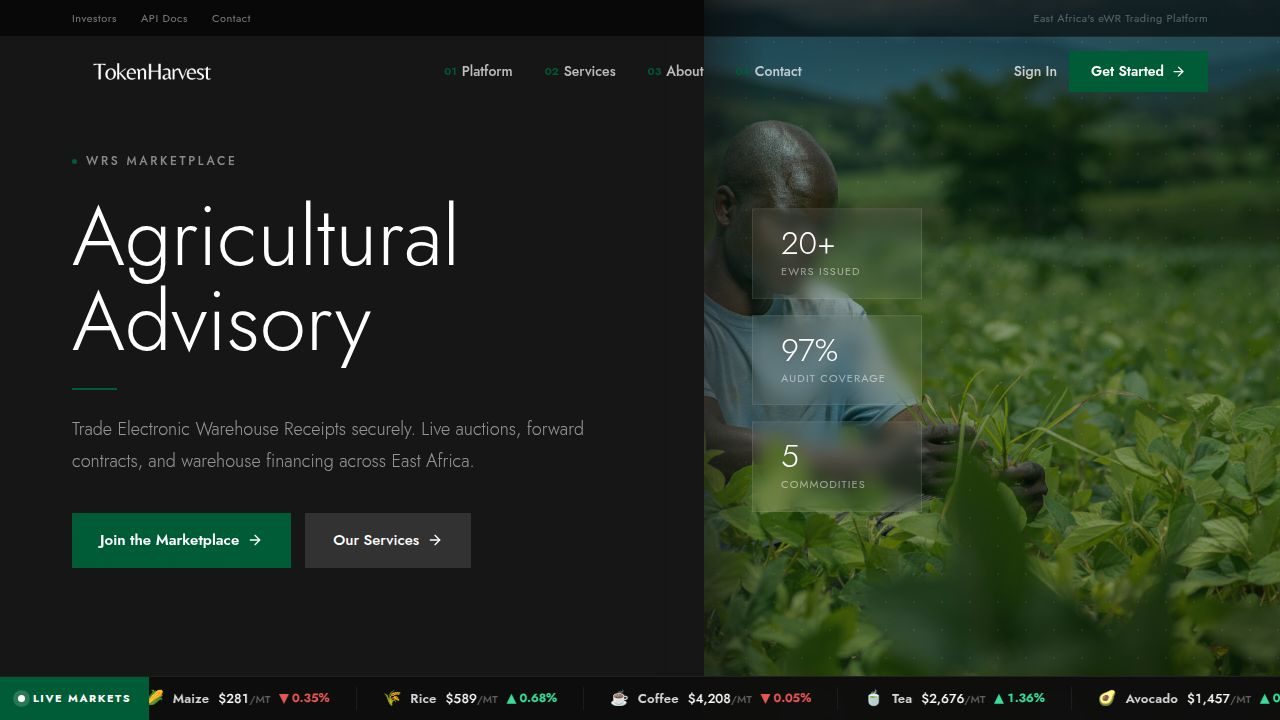
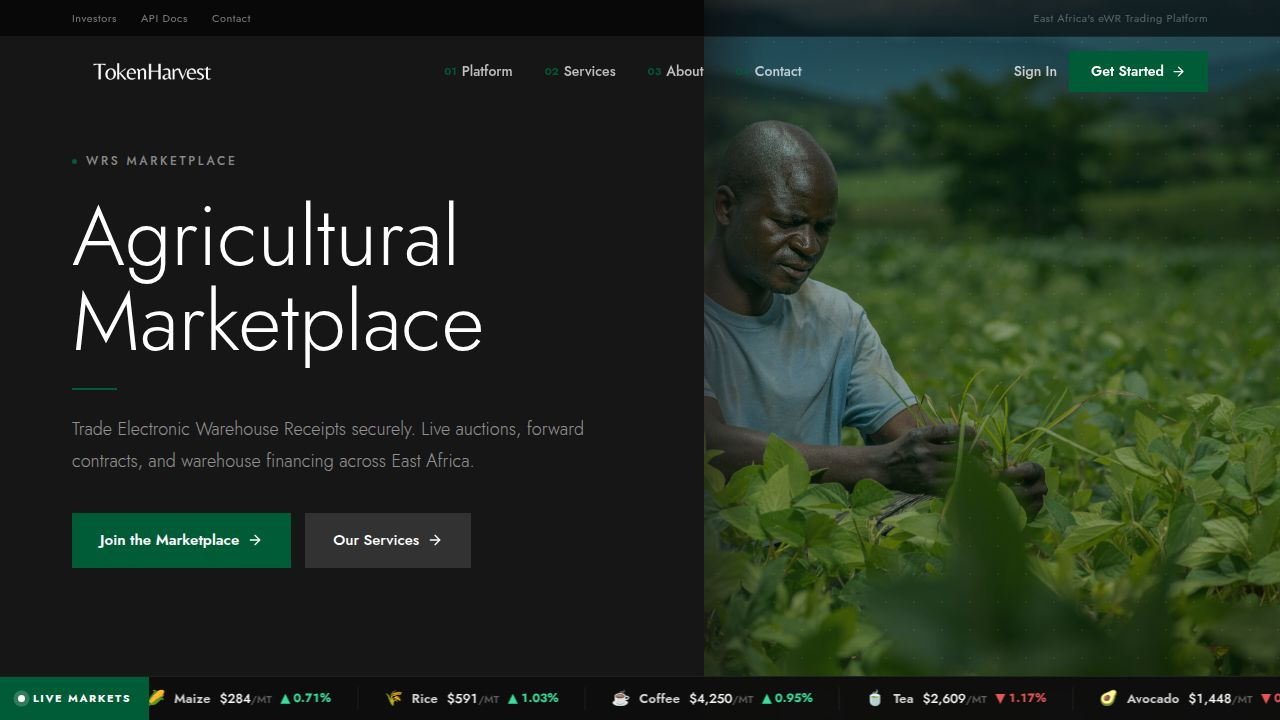
Update main heading to reflect agricultural marketplace
Change "Agricultural Advisory" to "Agricultural Marketplace" in the home page hero section.

Replit-Commit-Author: Agent
Replit-Commit-Session-Id: da2f5e4e-740c-4db9-906b-ae943a9c7057
Replit-Commit-Checkpoint-Type: full_checkpoint
Replit-Commit-Event-Id: ee940a04-bf24-42ed-8bf5-6f8504a55d9f
Replit-Commit-Screenshot-Url: https://storage.googleapis.com/screenshot-production-us-central1/dd461ee7-951f-4f5d-8554-c9cd33a02471/da2f5e4e-740c-4db9-906b-ae943a9c7057/md83S7L
Replit-Helium-Checkpoint-Created: true

diff --git a/artifacts/wrs-marketplace/src/pages/Home.tsx b/artifacts/wrs-marketplace/src/pages/Home.tsx
@@ -470,7 +470,7 @@ export default function Home() {
                 {/* heading */}
                 <h1 style={{ color: "#fff", fontWeight: 300, lineHeight: 1.02, margin: "0 0 24px", fontSize: "clamp(3rem, 6.5vw, 6.2rem)" }}>
                   Agricultural
-                  <br />Advisory
+                  <br />Marketplace
                 </h1>
                 {/* accent line */}
                 <div style={{ width: 45, height: 2, background: ACCENT, marginBottom: 24 }} />
